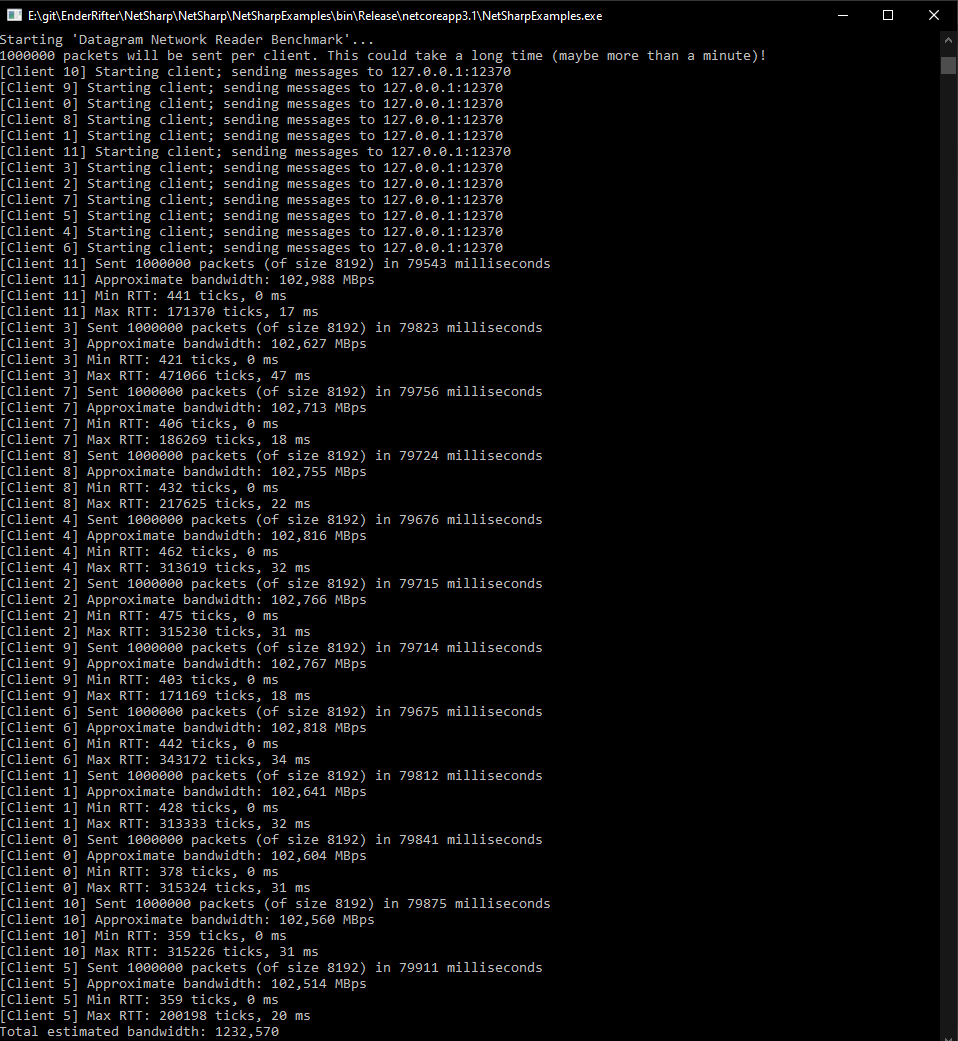
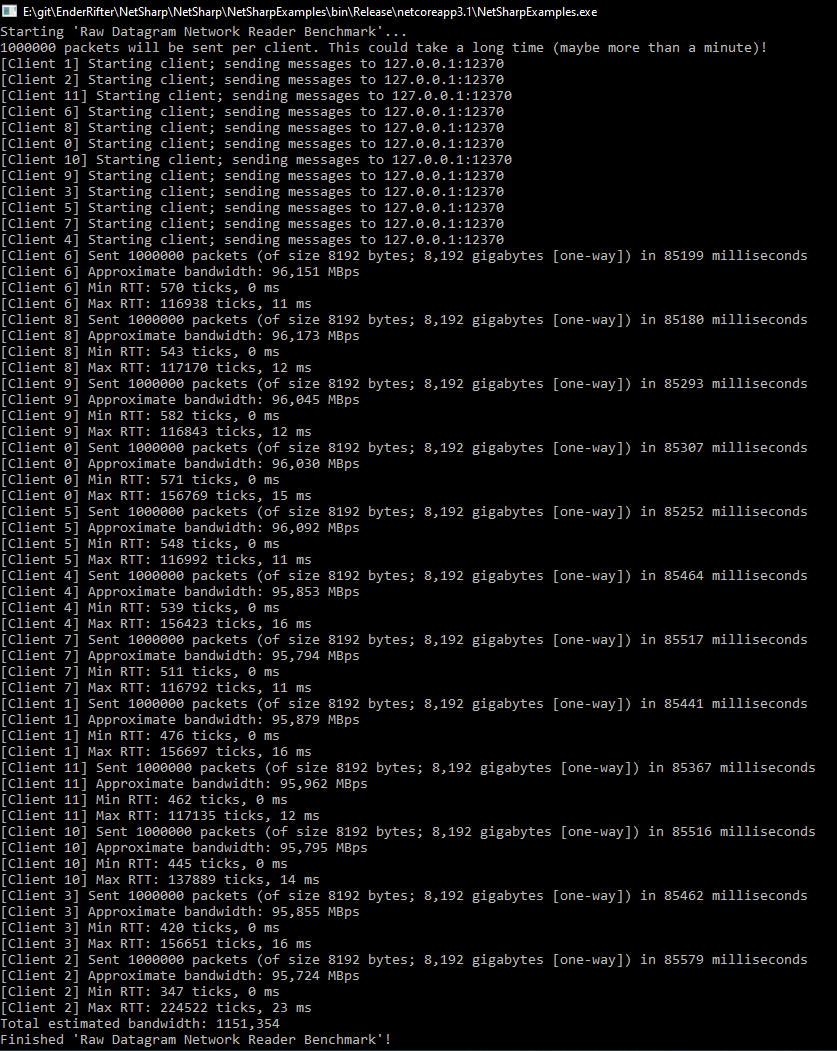
Updated docs to reflect newest rework

diff --git a/README.md b/README.md
@@ -1,13 +1,15 @@
 # NetSharp
+
 A (somewhat) performant network library for TCP and UDP written over raw sockets and SocketAsyncEventArgs in C#, geared towards asynchronous and concurrent applications.
 
-For help with the library, feel free to visit our Discord and ask your questions [here](https://discord.gg/DKQhxuY) (raw link: https://discord.gg/DKQhxuY).
+For help with the library, feel free to visit our Discord and ask your questions [here](https://discord.gg/DKQhxuY).
 
 | Service | Status Badge |
 | ------- | ------------ |
 | Discord | [![Discord Server][discord-server-badge]](https://discord.gg/DKQhxuY) |
 
 ## License
+
 This library is under the GNU General Public License v3.0. What does this mean for you?
 
 You can use this library for: 'Commercial Use', 'Private Use', and 'Patent Use'. You can make any modifications you want and you can distribute it as-is or with your modifications.
@@ -16,15 +18,18 @@ When using this library in your project you must: 'Disclose the source' (a link 
 
 No warranty is provided, and contributors are not liable to you (the user of the library) for damages incurred through the use of this library. See LICENSE; 'Terms and Conditions' points 15 and 16 ('Disclaimer of Warranty' and 'Limitation of Liability respectively') for more information.
 
-# Examples & Benchmarks
+## Examples & Benchmarks
+
 The library comes with a .NET Core 3.1 console project containing examples and benchmarks for the components of the library. The example project and a few benchmarks can be seen below:
 
-## Example Project
+### Example Project
+
 ![Example Project 'Main Menu'][example-project]
 
-## Benchmarks
+### Benchmarks
 
-### Preface
+#### Preface
+
 All the benchmarks were performed on a Ryzen 7 1700 CPU @ 3.20GHz. This library is built to be concurrent and to scale well with the number of execution threads available. The per-core clocks are also important though (when are they not?).
 
 During a benchmark 1,000,000 packets are sent per client by default, with a data segment size of 8192 bytes (8 kibibytes). This means that, by default, 8.192 gigabytes of user data are sent one way, and 8.192 are received (in the form of a response packet). The server is set up to simply echo any received packets, so packet processing overhead is virtually non-existent. Your mileage may vary.
@@ -32,62 +37,20 @@ During a benchmark 1,000,000 packets are sent per client by default, with a data
 The RTT values measured are the very extremes of what you would get. When printing the RTT-per-packet, the maximum value is attained at the start of the connection and the minimum value seems to be sustained for the remainder of the connection. Again, your mileage may vary depending on the speed of your network, your packet loss (if using TCP), and the amount of packet processing you do on the server. The more processing you do, the longer your RTT times will be.
 
 ### Datagram Network Reader & Writer Benchmarks
+
 The following is the datagram network listener (UDP) benchmark:
 ![Datagram Network Reader Benchmark][datagram-network-reader-benchmark]
-
-```
-The worst performing client took 79911 ms to send all of their packets.
-Therefore, average RTT-per-packet:
-    Total time: 79.911 seconds; Packet count: 1 000 000
-    Time per packet: 79.911 / 1 000 000
-    Time per packet: 7.9911x10^-5 (0.079911 ms)
-```
 
 The following are the synchronous and asynchronous datagram network writer (UDP) benchmarks. Worse performance is expected when compared to the synchronous benchmark, due to the increased overhead of async operations:
 ![Datagram Network Writer Benchmark][datagram-network-writer-benchmark]
 
-```
-The synchronous client took 33906 ms to send all of their packets.
-Therefore, average RTT-per-packet:
-    Total time: 33.906 seconds Packet count: 1 000 000
-    Time per packet: 33.906 / 1 000 000
-    Time per packet: 3.3906x10^-5 (0.033906 ms)
-
-The asynchronous client took 38569 ms to send all of their packets.
-Therefore, average RTT-per-packet:
-    Total time: 38.569 seconds Packet count: 1 000 000
-    Time per packet: 38.569 / 1 000 000
-    Time per packet: 3.8569x10^-5 (0.038569 ms)
-```
-
 ### Stream Network Reader & Writer Benchmarks
+
 The following is the stream network listener (TCP) benchmark:
 ![Stream Network Reader Benchmark][stream-network-reader-benchmark]
 
-```
-The worst performing client took 93616 ms to send all of their packets.
-Therefore, average RTT-per-packet:
-    Total time: 93.616 seconds; Packet count: 1 000 000
-    Time per packet: 93.616 / 1 000 000
-    Time per packet: 9.3616x10^-5 (0.093616 ms)
-```
-
 The following are the synchronous and asynchronous stream network writer (TCP) benchmarks. Worse performance is expected when compared to the synchronous benchmark, due to the increased overhead of async operations:
 ![Stream Network Writer Benchmark][stream-network-writer-benchmark]
-
-```
-The synchronous client took 39889 ms to send all of their packets.
-Therefore, average RTT-per-packet:
-    Total time: 39.889 seconds Packet count: 1 000 000
-    Time per packet: 39.889 / 1 000 000
-    Time per packet: 3.9889x10^-5 (0.039889 ms)
-
-The asynchronous client took 44806 ms to send all of their packets.
-Therefore, average RTT-per-packet:
-    Total time: 44.806 seconds Packet count: 1 000 000
-    Time per packet: 44.806 / 1 000 000
-    Time per packet: 4.4806x10^-5 (0.044806 ms)
-```
 
 [discord-server-badge]: https://img.shields.io/discord/703255900600795196.svg?style=flat-square&logo=discord&color=blue
 
